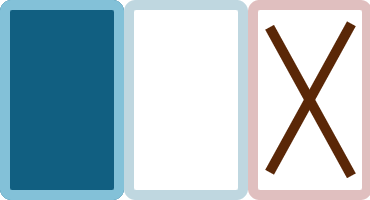
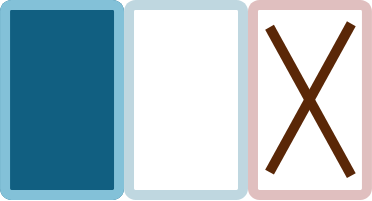
Corregido tamaño de imagenes

diff --git a/assets/js/solitary.js b/assets/js/solitary.js
@@ -20,8 +20,8 @@ var Solitario = {
     preload: function () {
         // body...
 
-        Game.load.spritesheet('atras', 'assets/imgs/cartas_1.png', 370 / 3, 200, 3);
-        Game.load.spritesheet('cartas', 'assets/imgs/cartas_2.png', 126, 202, 48);
+        Game.load.spritesheet('atras', 'assets/imgs/cartas_1.png', 124, 200, 3);
+        Game.load.spritesheet('cartas', 'assets/imgs/cartas_2.png', 124, 200, 48);
 
         Game.load.json('cartas_json', 'assets/js/cartas_json.json');
 
